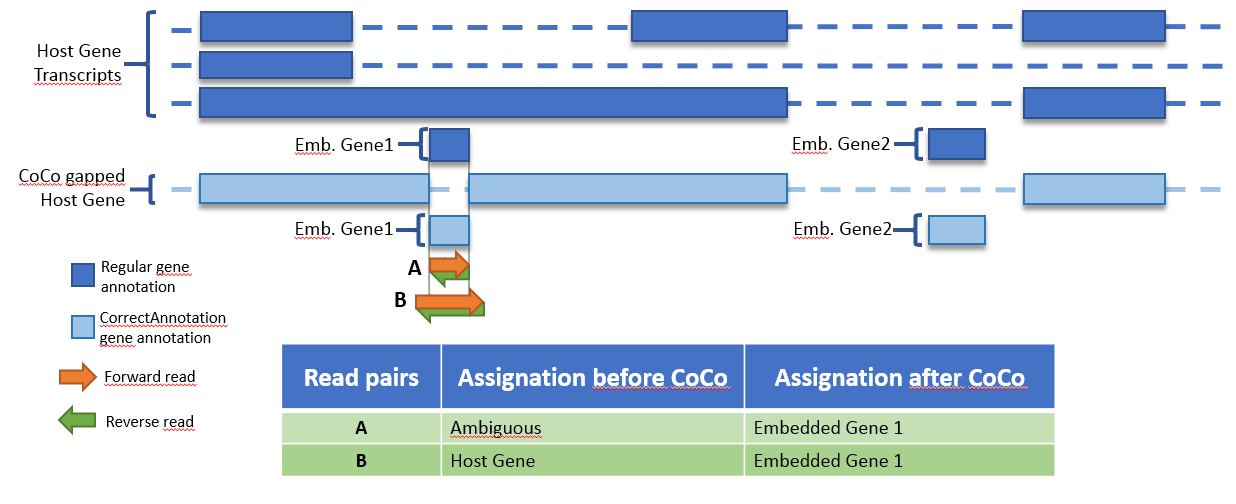
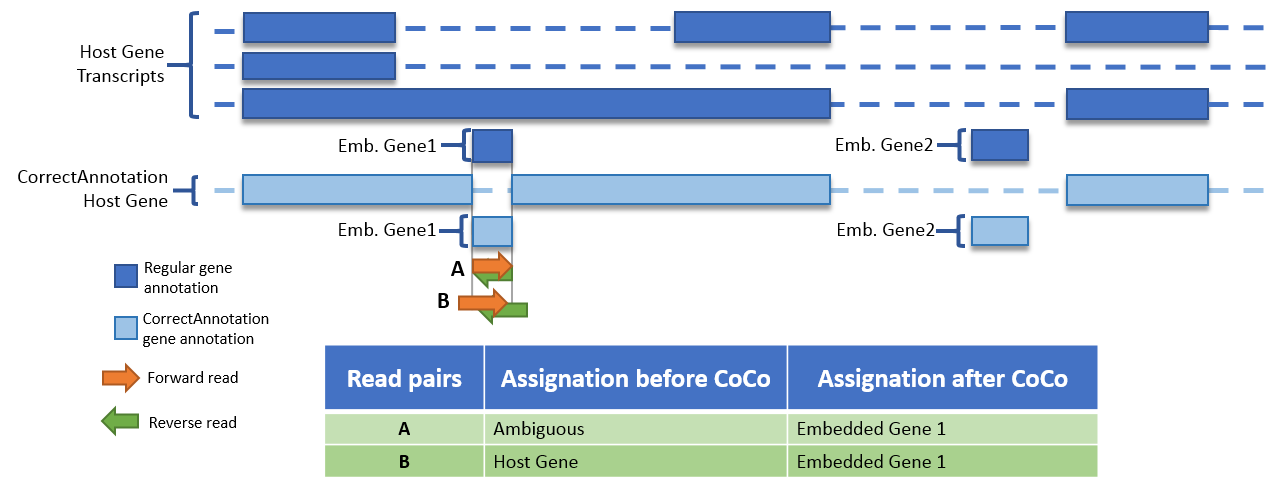
still working on readme.

Changed region(s): [[0.0, 0.0, 1.0, 0.9776], [0.0307, 0.7332, 0.1845, 0.8859]]

diff --git a/README.md b/README.md
@@ -1,53 +1,83 @@
-# CoCo: Count Corrector for embedded and multi-mapped genes.
+# **CoCo**: Count Corrector for embedded and multi-mapped genes.
 
-CoCo is a pipeline designed to improve the evaluated abundances of genes from RNA-seq alignment data. CoCo is divided in two main parts which can be used together or seperately, depending on user's preferences. The first part being a correction of the gene annotation used by read assignment softwares such as featureCounts or HTSeq in order to correct the evaluated read counts for embedded genes such as snoRNA, that overlap features of their host gene's transcripts such as retained introns and exons. The second part of the correction distributes multi mapped reads in relation to the evaluated read counts obtained from single mapped reads.
+CoCo is a pipeline designed to improve the evaluated abundances of embedded and multi-mapped genes from RNA-seq alignment data. CoCo is divided in two main parts which can be used together or seperately, depending on user's preferences. The first part being a correction of the gene annotation used by read assignment softwares such as featureCounts or HTSeq in order to correct the evaluated read counts for embedded genes such as snoRNA, that overlap features of their host gene's transcripts such as retained introns and exons. The second part of the correction distributes multi mapped reads in relation to the evaluated read counts obtained from single mapped reads.
 
 We've shown that the combination of these two corrections gives the best correlation of the evaluated gene abundance from RNAseq data with abundances evaluated from other methods such as qPCR.
 
 ## Getting Started
 
-These instructions will get you a copy of the project up and running on your local machine for development and testing purposes. See deployment for notes on how to deploy the project on a live system.
+These instructions will get you a copy of the project up and running on your local machine for development and testing purposes.
 
 ### Prerequisites
 
-CoCo has a few python and R dependencies.
+Here are the tools that must be installed for CoCo to work:
+* [Subread](http://subread.sourceforge.net/), for the *featureCounts* function, which is used by CorrectCount to produce the read counts per genes. [Click here for installation guidelines](http://bioinf.wehi.edu.au/subread-package/)
+* [BEDtools](http://bedtools.readthedocs.io/en/latest/), for the *intersect* function which is used by CorrectAnnotation and for *genomecov* which is used by CorrectBedgraph.[Click here for installation guidelines](http://bedtools.readthedocs.io/en/latest/content/installation.html)
 
-```
-Give examples
-```
+CoCo scripts are mostly python3, so be sure you have python3 installed and working. (tested for python 3.5)
+CoCo also uses some python3 packages:
+* [pandas](http://pandas.pydata.org/), [Click here for installation guidelines](http://pandas.pydata.org/pandas-docs/stable/install.html)
 
 ### Installing
 
-A step by step series of examples that tell you have to get a development env running
+Installing CoCo is done in a few easy steps.
 
-Say what the step will be
-
-```
-Give the example
-```
-
-And repeat
+First, you must clone the git repositroy to your favourite directory.
 
 ```
-until finished
+cd /path/to/clone/
+git clone http://gitlabscottgroup.med.usherbrooke.ca/scott-group/coco.git
 ```
 
-End with an example of getting some data out of the system or using it for a little demo
+Next, you have to add the /bin/ path of the coco repository to your PATH environment variable.
+this is easily done by opening your .bashrc file in your $HOME repository and add this line at the bottom:
 
+```
+export PATH=/path/to/clone/coco/bin:$PATH
+```
 
-### Usage
+And then you're pretty much done! You should have access to the **coco** command from your terminal.
 
-Once the package is downloaded and the CoCo/bin/ path is added to your PATH environment variable, CoCo can be called directly from your terminal.
-CoCo is divided into two main run modes: CorrectAnnotation and CorrectCount, and one accessory mode: CorrectBedgraph.
+ ```
+coco --help
+>>	CoCo: Count Corrector for embedded and multi-mapped genes.
+	Version: 1.0.0
+	Usage: CoCo <Run mode> <Run mode specific arguments>
 
-## CorrectAnnotation
-CorrectAnnotation should be used first in order to produce a modified annotation file from an input gene transfer format (.gtf) annotation obtained from Ensembl.
-The corrected annotation consists in a version of the original annotation where exon portions of host genes that overlap embedded genes are removed.
-The considered embedded gene biotypes are: snoRNA, scaRNA, snRNA, miRNA and tRNA. Therefore, the original annotation file should have a "gene_biotype" entry for each genes (see image below).
+	Run modes:
+		CorrectAnnotation:	Produce modified annotation for embedded genes.
+		CorrectCount:		Produce gene expression values, taking multi-mapped reads into account.
+		CorrectBedgraph:	Produce paired-end bedgraphs.
+
+	-h, --help	show this help message and exit
+
+	For more info, please refer to the README file.
+```
+
+## Usage
+
+Once the repository is downloaded and its /bin/ path is added to your PATH environment variable, CoCo can be called directly from your terminal.
+CoCo is divided into two main run modes: **CorrectAnnotation** and **CorrectCount**, and one accessory mode: **CorrectBedgraph**.
+
+### CorrectAnnotation
+CorrectAnnotation should be used first in order to produce a modified annotation file from an input gene transfer format (.gtf) annotation file obtained from **Ensembl**.
+Basic usage:
+```
+coco CorrectAnnotation path/to/your/annotation/hg38_annotation.gtf
+```
+
+The corrected annotation consists in a version of the original annotation where exon portions of host genes that overlap embedded genes are removed (see image below).
 
 ![alt tag](ressources/CorrectAnnotation.PNG)
 
-This might not be included into the annotation files from other sources than Ensembl and so we recommend that you get the annotation from Ensembl.
+The considered embedded gene biotypes are: snoRNA, scaRNA, snRNA, miRNA and tRNA. Therefore, **the original annotation file should have a "gene_biotype" entry for each genes**. This might not be included into the annotation files from other sources than Ensembl and so **we recommend that you get the annotation from Ensembl**.
+
+### CorrectCount
+
+CorrectCount is used to produce the corrected read counts per gene as well as their count per million (CPM) and approximated transcripts per million (TPM) values. This step should use the modified (.gtf) annotation file produced 
+
+
+### CorrectBedgraph
 
 
 
@@ -79,17 +109,9 @@ Give an example
 * [Maven](https://maven.apache.org/) - Dependency Management
 * [ROME](https://rometools.github.io/rome/) - Used to generate RSS Feeds
 
-## Contributing
-
-Please read [CONTRIBUTING.md](https://gist.github.com/PurpleBooth/b24679402957c63ec426) for details on our code of conduct, and the process for submitting pull requests to us.
-
-## Versioning
-
-We use [SemVer](http://semver.org/) for versioning. For the versions available, see the [tags on this repository](https://github.com/your/project/tags). 
-
 ## Authors
 
-* **Gabrielle Deschamps-Francoeur** - *Making of the multi-mapped read correction.
+* **Gabrielle Deschamps-Francoeur** - *Making of the multi-mapped read correction.*
 * **Vincent Boivin** - *Making of the annotation correction for ambiguous reads.* - [boiv2803](http://gitlabscottgroup.med.usherbrooke.ca/u/boiv2803)
 * **Michelle Scott** - *Mastermind of the project and awesome PI* - [scottgroup](http://scottgroup.med.usherbrooke.ca/)
 
@@ -101,7 +123,11 @@ This project is licensed under the MIT License - see the [LICENSE.md](LICENSE.md
 
 ## Acknowledgments
 
-* Hat tip to Fabien Dupuis-Sandoval for starting this project from scratch
+* Hat tip to Fabien Dupuis-Sandoval for starting this project from scratch.
 * Many thanks to Jean-Michel Garrant as well for his general wisdom.
 
+## References
+CoCo:
+Subread package:
+bedTools:
 
